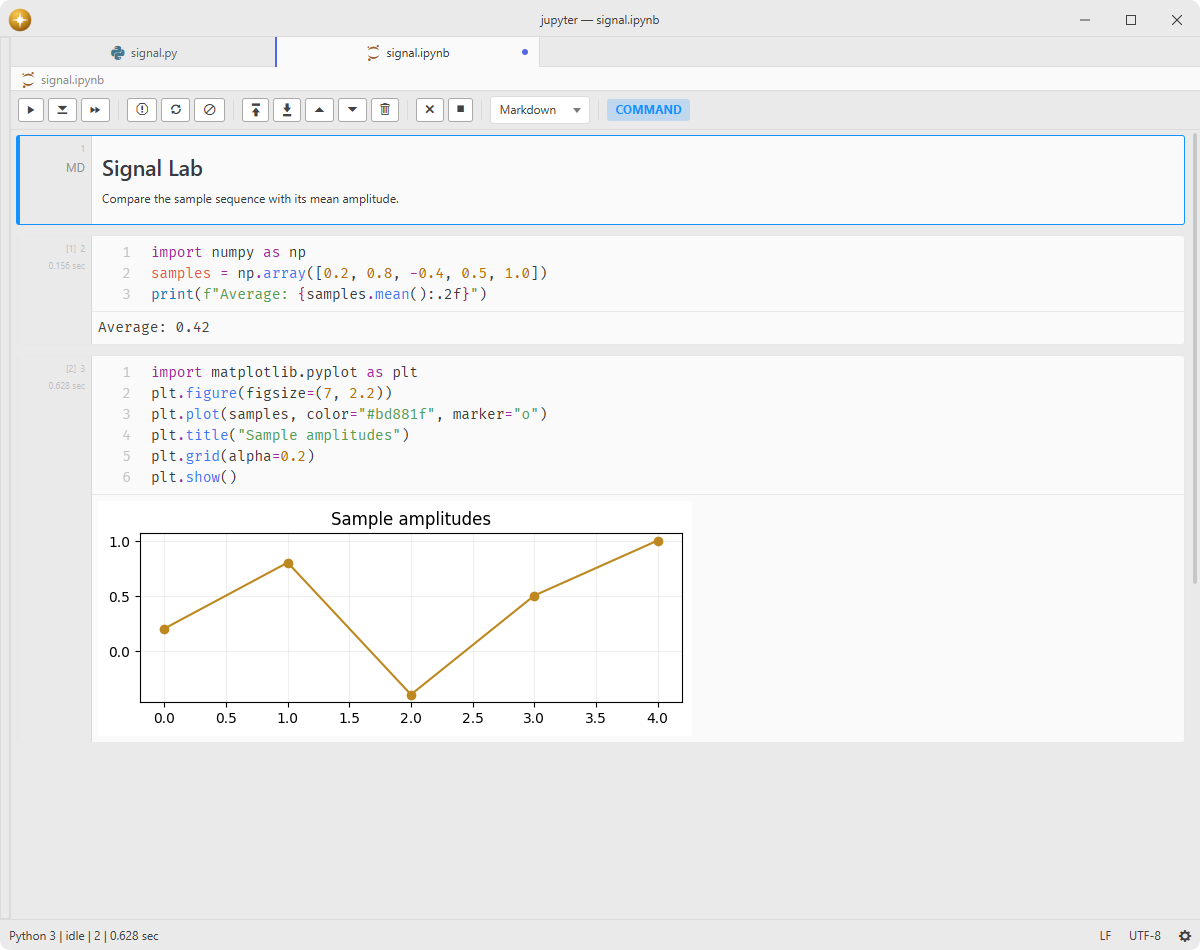
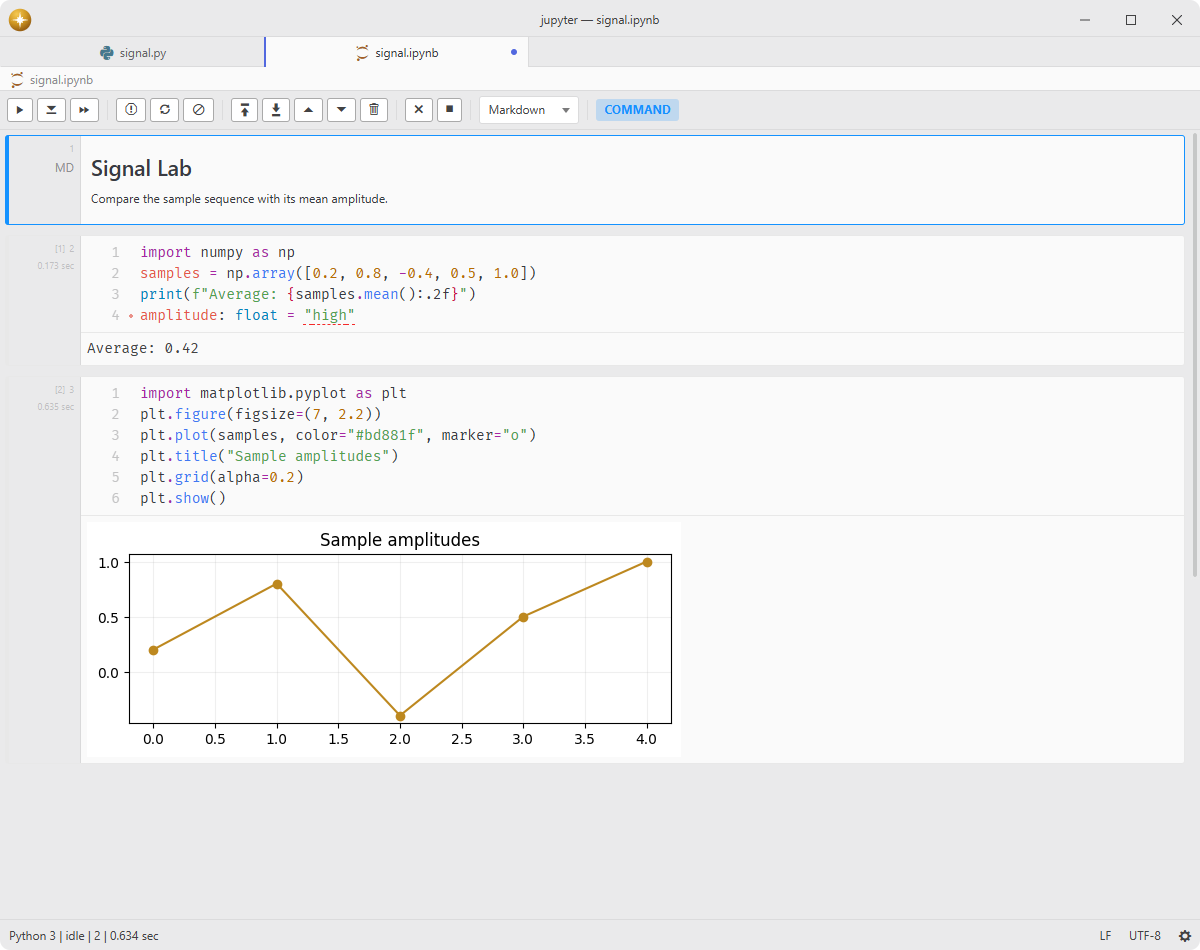
Add screenshots beneath the feature list

diff --git a/README.md b/README.md
@@ -16,6 +16,8 @@ Open and edit Jupyter notebooks.
 
 ![Execute a notebook with live Python output and a plotted signal.](.github/demo.png)
 
+![Basedpyright underlines a type error inside a notebook cell and explains it in a hover.](.github/demo-2.png)
+
 ## Installation
 
 To install `jupyter-view` search for it in the Install pane of the Lumine settings, or run the command `lumine --install lumine-code/jupyter-view`.
